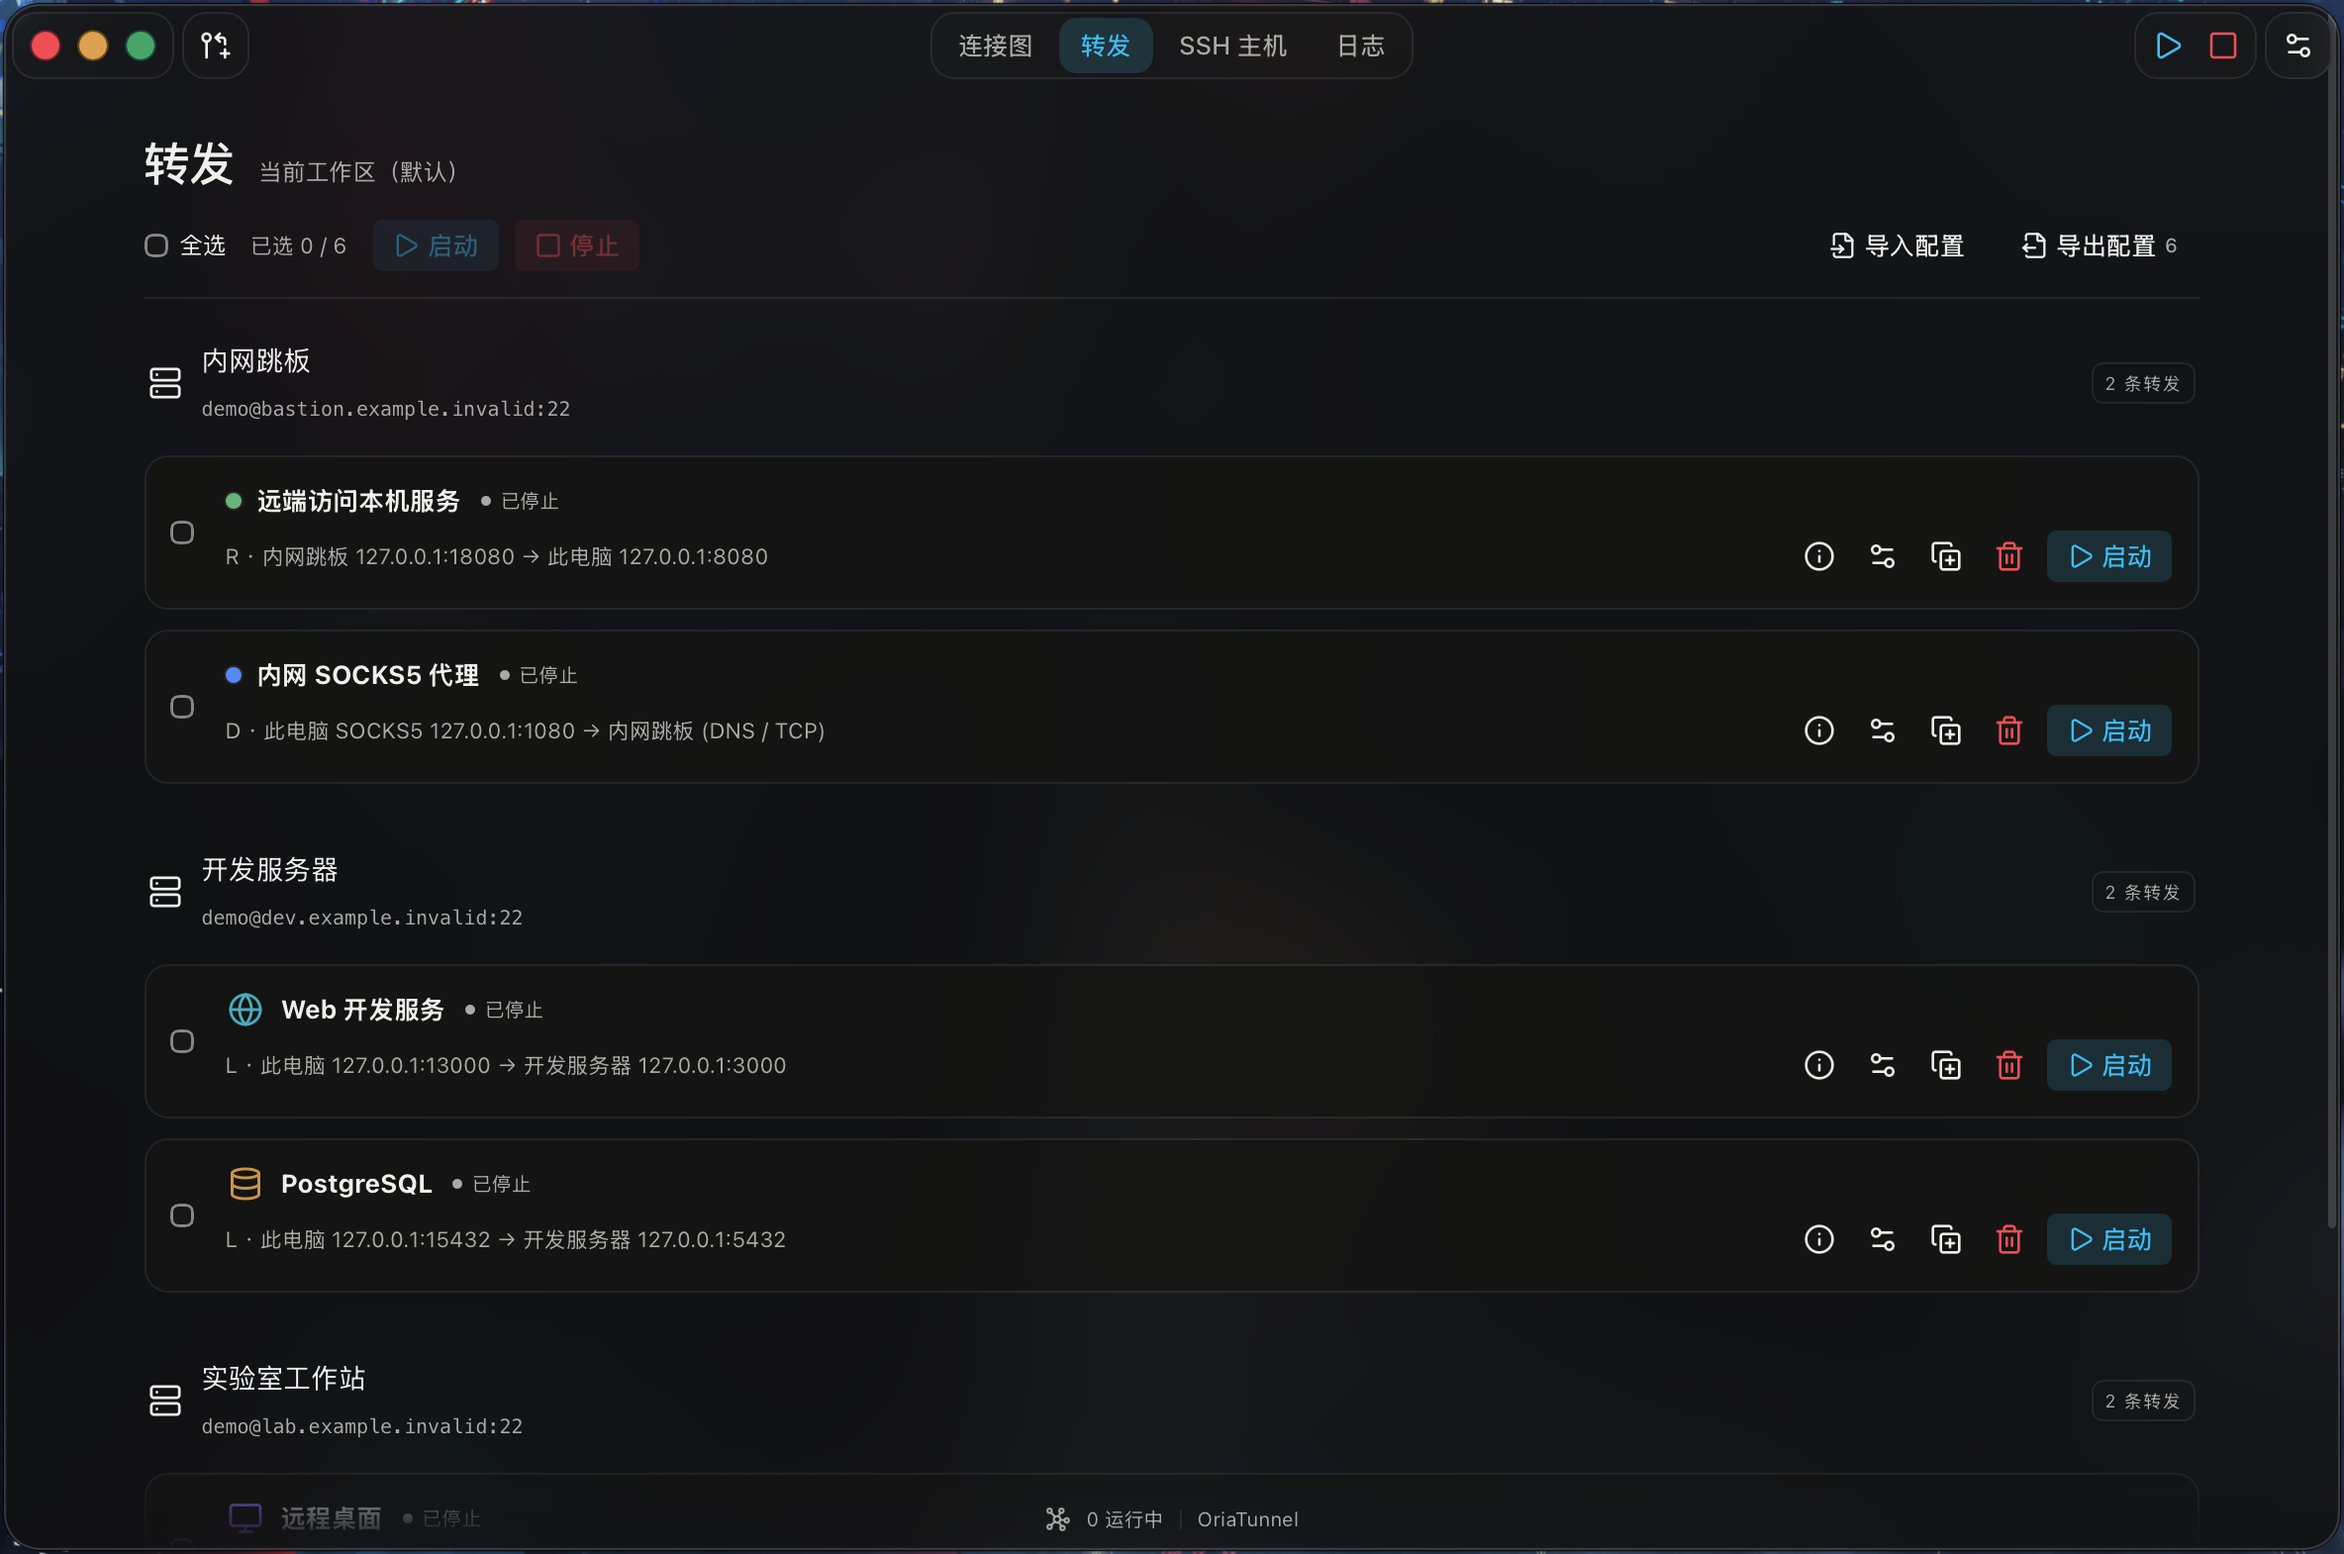
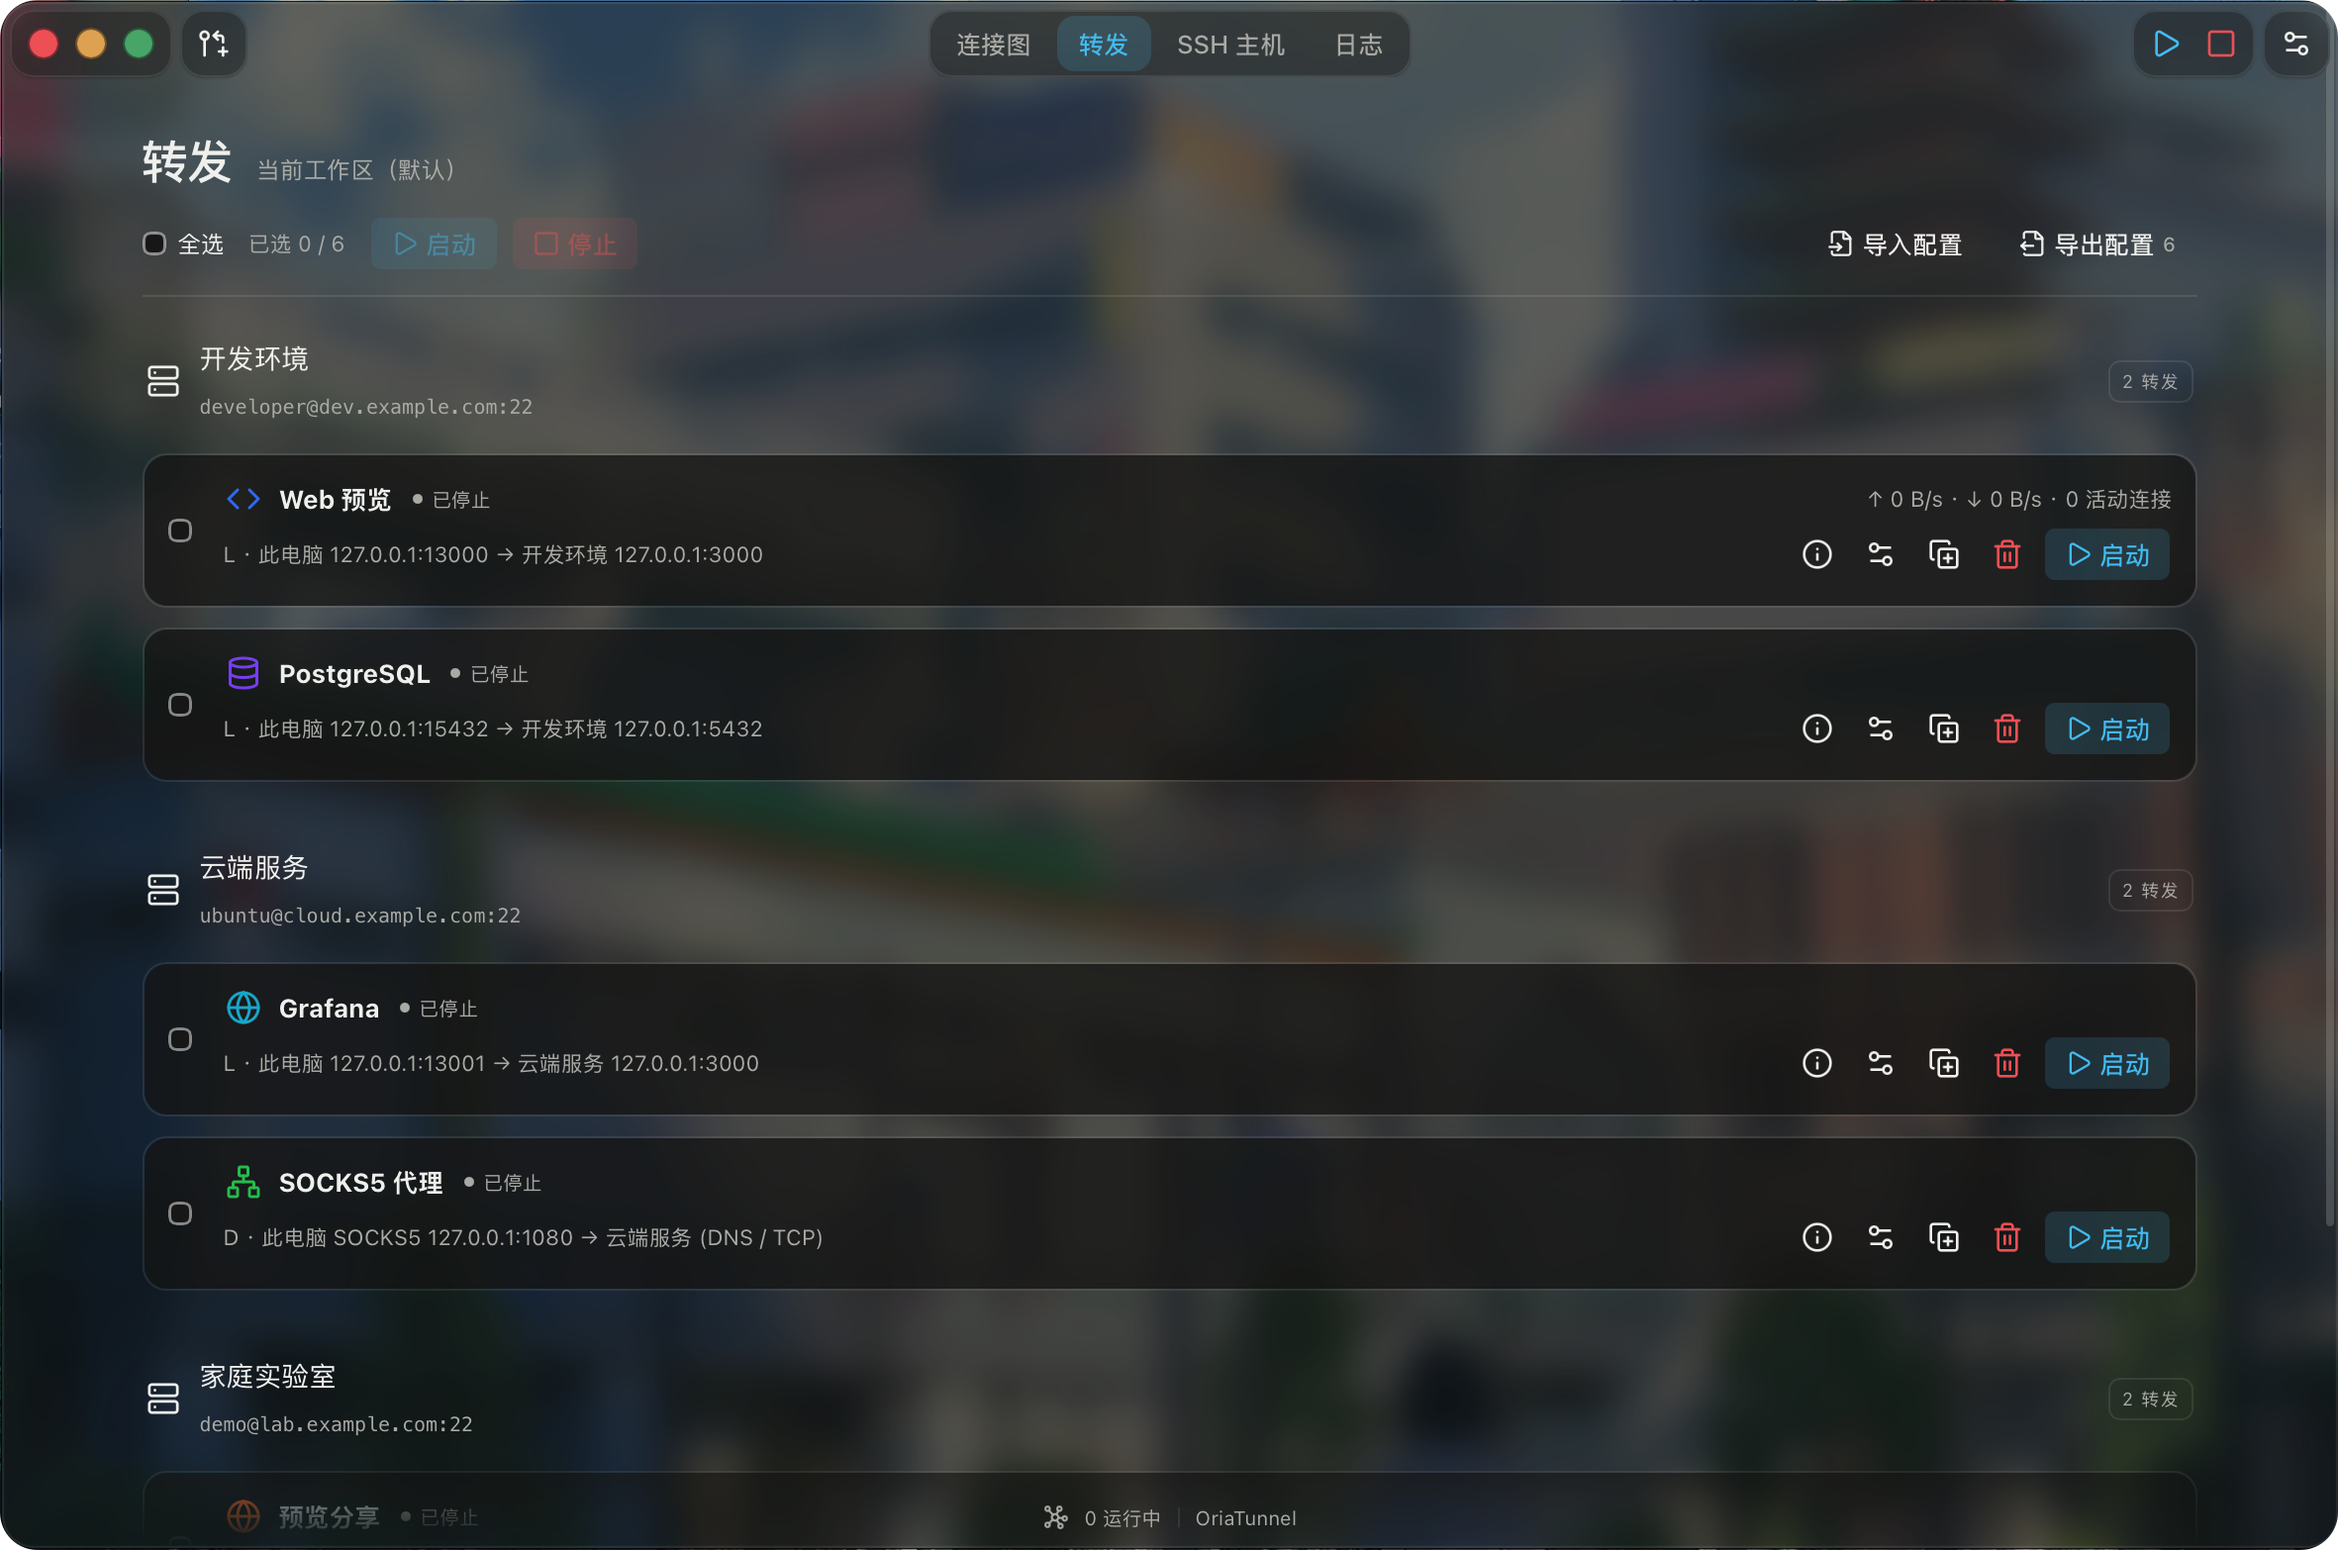
docs: refresh screenshots and arrange README previews in a grid

diff --git a/docs/readme/README.ru.md b/docs/readme/README.ru.md
@@ -19,13 +19,9 @@ OriaTunnel — настольное приложение для перенапр
 
 Изолированная демонстрационная конфигурация: 3 примера хостов и 6 перенаправлений L / R / D, все остановлены. Реальных серверов и учётных данных нет.
 
-![Карта соединений](../assets/screenshots/connection-map.png)
-
-![Список перенаправлений](../assets/screenshots/forwards.png)
-
-![SSH-хосты](../assets/screenshots/hosts.png)
-
-![Журнал](../assets/screenshots/logs.png)
+| ![Карта соединений](../assets/screenshots/connection-map.png) | ![Список перенаправлений](../assets/screenshots/forwards.png) |
+| :---: | :---: |
+| ![SSH-хосты](../assets/screenshots/hosts.png) | ![Журнал](../assets/screenshots/logs.png) |
 
 ## Возможности
 

diff --git a/docs/readme/README.fr.md b/docs/readme/README.fr.md
@@ -19,13 +19,9 @@ OriaTunnel est une application de bureau de redirection de ports SSH pour Window
 
 Configuration de démonstration isolée : 3 hôtes et 6 redirections L / R / D, toutes arrêtées. Aucun serveur réel ni identifiant de connexion.
 
-![Carte des connexions](../assets/screenshots/connection-map.png)
-
-![Liste des redirections](../assets/screenshots/forwards.png)
-
-![Hôtes SSH](../assets/screenshots/hosts.png)
-
-![Journaux](../assets/screenshots/logs.png)
+| ![Carte des connexions](../assets/screenshots/connection-map.png) | ![Liste des redirections](../assets/screenshots/forwards.png) |
+| :---: | :---: |
+| ![Hôtes SSH](../assets/screenshots/hosts.png) | ![Journaux](../assets/screenshots/logs.png) |
 
 ## Fonctionnalités
 

diff --git a/docs/readme/README.ko.md b/docs/readme/README.ko.md
@@ -19,13 +19,9 @@ OriaTunnel은 Windows와 macOS용 SSH 포트 포워딩 데스크톱 앱입니다
 
 격리된 데모 설정: 예제 호스트 3개와 L / R / D 포워딩 6개가 모두 중지 상태입니다. 실제 서버나 자격 증명은 포함하지 않습니다.
 
-![연결 지도](../assets/screenshots/connection-map.png)
-
-![포워딩 목록](../assets/screenshots/forwards.png)
-
-![SSH 호스트](../assets/screenshots/hosts.png)
-
-![로그](../assets/screenshots/logs.png)
+| ![연결 지도](../assets/screenshots/connection-map.png) | ![포워딩 목록](../assets/screenshots/forwards.png) |
+| :---: | :---: |
+| ![SSH 호스트](../assets/screenshots/hosts.png) | ![로그](../assets/screenshots/logs.png) |
 
 ## 주요 기능
 

diff --git a/docs/readme/README.de.md b/docs/readme/README.de.md
@@ -19,13 +19,9 @@ OriaTunnel ist eine Desktop-App zur SSH-Portweiterleitung für Windows und macOS
 
 Isolierte Demokonfiguration: 3 Beispielhosts und 6 L-/R-/D-Weiterleitungen, alle gestoppt. Keine echten Server oder Zugangsdaten.
 
-![Verbindungsübersicht](../assets/screenshots/connection-map.png)
-
-![Weiterleitungsliste](../assets/screenshots/forwards.png)
-
-![SSH-Hosts](../assets/screenshots/hosts.png)
-
-![Protokolle](../assets/screenshots/logs.png)
+| ![Verbindungsübersicht](../assets/screenshots/connection-map.png) | ![Weiterleitungsliste](../assets/screenshots/forwards.png) |
+| :---: | :---: |
+| ![SSH-Hosts](../assets/screenshots/hosts.png) | ![Protokolle](../assets/screenshots/logs.png) |
 
 ## Funktionen
 

diff --git a/README.md b/README.md
@@ -19,13 +19,9 @@ OriaTunnel 是面向 Windows 和 macOS 的 SSH 端口转发桌面工具。通过
 
 以下截图使用独立演示配置：3 台示例主机、6 条 L / R / D 转发，全部保持停止，不包含真实服务器或凭据。
 
-![连接图](docs/assets/screenshots/connection-map.png)
-
-![转发列表](docs/assets/screenshots/forwards.png)
-
-![SSH 主机](docs/assets/screenshots/hosts.png)
-
-![日志](docs/assets/screenshots/logs.png)
+| ![连接图](docs/assets/screenshots/connection-map.png) | ![转发列表](docs/assets/screenshots/forwards.png) |
+| :---: | :---: |
+| ![SSH 主机](docs/assets/screenshots/hosts.png) | ![日志](docs/assets/screenshots/logs.png) |
 
 ## 能做什么
 

diff --git a/docs/readme/README.en.md b/docs/readme/README.en.md
@@ -19,13 +19,9 @@ OriaTunnel is an SSH port forwarding desktop app for Windows and macOS. See your
 
 Isolated demo configuration: 3 example hosts and 6 L / R / D forwards, all stopped. No real servers or credentials.
 
-![Connection map](../assets/screenshots/connection-map.png)
-
-![Forward list](../assets/screenshots/forwards.png)
-
-![SSH hosts](../assets/screenshots/hosts.png)
-
-![Logs](../assets/screenshots/logs.png)
+| ![Connection map](../assets/screenshots/connection-map.png) | ![Forward list](../assets/screenshots/forwards.png) |
+| :---: | :---: |
+| ![SSH hosts](../assets/screenshots/hosts.png) | ![Logs](../assets/screenshots/logs.png) |
 
 ## What you can do
 

diff --git a/docs/readme/README.zh-TW.md b/docs/readme/README.zh-TW.md
@@ -19,13 +19,9 @@ OriaTunnel 是適用於 Windows 和 macOS 的 SSH 連接埠轉送桌面工具。
 
 獨立示範設定：3 台範例主機、6 條 L / R / D 轉送，全部停止，沒有真實伺服器或憑證。
 
-![連線圖](../assets/screenshots/connection-map.png)
-
-![轉送清單](../assets/screenshots/forwards.png)
-
-![SSH 主機](../assets/screenshots/hosts.png)
-
-![日誌](../assets/screenshots/logs.png)
+| ![連線圖](../assets/screenshots/connection-map.png) | ![轉送清單](../assets/screenshots/forwards.png) |
+| :---: | :---: |
+| ![SSH 主機](../assets/screenshots/hosts.png) | ![日誌](../assets/screenshots/logs.png) |
 
 ## 功能特色
 
